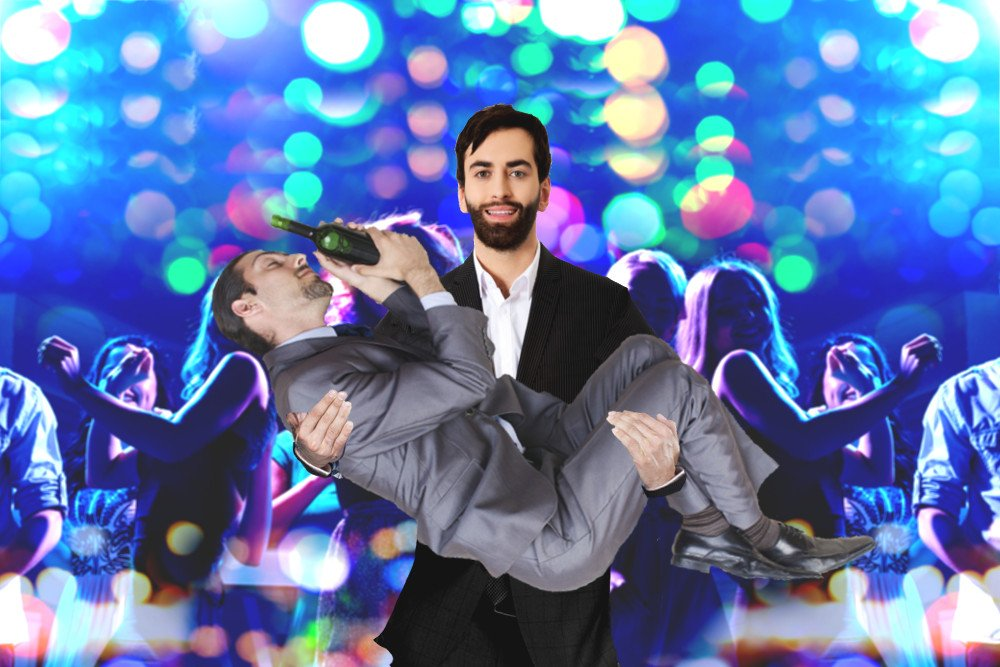
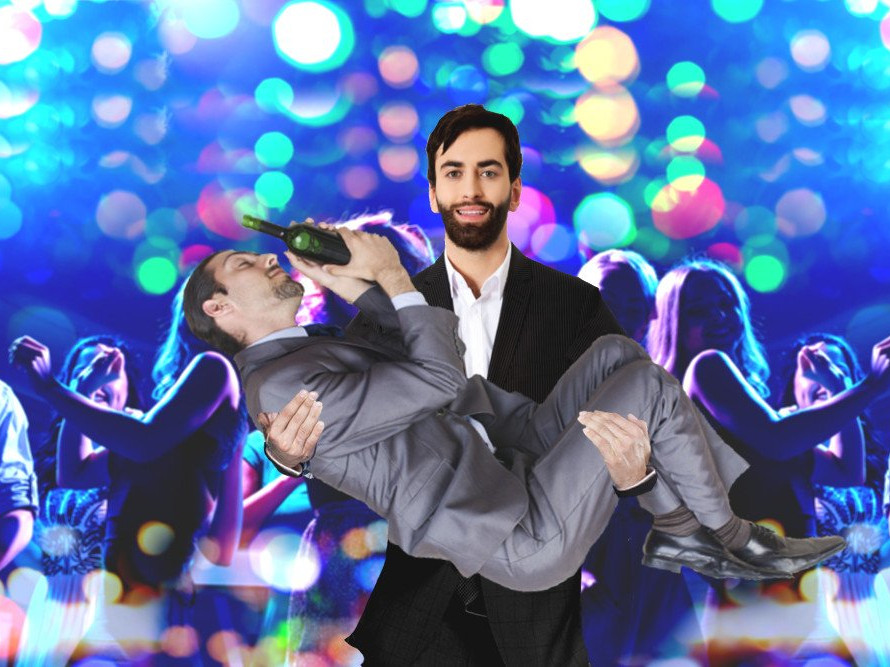
fix: rescale day plus one picture and add photo category

diff --git a/index.html b/index.html
@@ -259,6 +259,20 @@
                     <h4>Wedding Dress Code</h4>
                 </div>
             </div>
+            <!-- Wedding Photo -->
+            <div class="col-md-4 col-sm-6 portfolio-item">
+                <a class="portfolio-link" data-toggle="modal" href="#portfolioModal6">
+                    <div class="portfolio-hover">
+                        <div class="portfolio-hover-content">
+                            <i class="fa fa-plus fa-3x"></i>
+                        </div>
+                    </div>
+                    <img class="img-fluid" src="img/info/photo.jpg" alt="">
+                </a>
+                <div class="portfolio-caption">
+                    <h4>Photo</h4>
+                </div>
+            </div>
             <!-- Post-wedding -->
             <div class="col-md-4 col-sm-6 portfolio-item">
                 <a class="portfolio-link" data-toggle="modal" href="#portfolioModal5">
@@ -334,6 +348,8 @@
             </div>
             <!-- Emergency Contact -->
             <div class="col-md-4 col-sm-6 portfolio-item">
+            </div>
+            <div class="col-md-4 col-sm-6 portfolio-item">
                 <a class="portfolio-link" data-toggle="modal" href="#portfolioModal6">
                     <div class="portfolio-hover">
                         <div class="portfolio-hover-content">
@@ -346,6 +362,9 @@
                     <h4>Emergency Contact</h4>
                 </div>
             </div>
+            <div class="col-md-4 col-sm-6 portfolio-item">
+            </div>
+        </div>
             </div>
         </div>
     </div>
@@ -860,8 +879,6 @@ function callOrDisplay(number, id, cmd) {
 <!-- TODO Dans Lille parler de voyager en Europe
 <!-- TODO Manage the HOTEL + Brunch
 <!-- TODO put the form in a modal
-
-
 
 <!-- Footer -->
 <footer>
